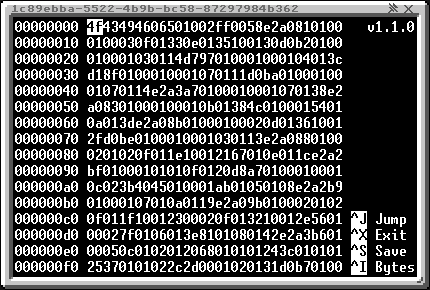
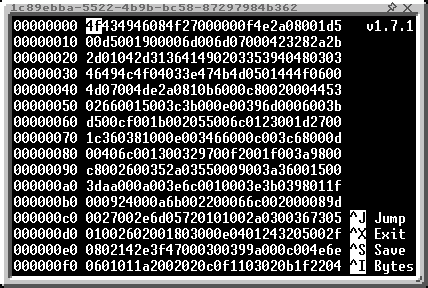
Updated the Hextra docs from documenting v1.1.0 to v1.7.1

diff --git a/docs/hextra/README.md b/docs/hextra/README.md
@@ -20,6 +20,10 @@ There isn't unfortunately enough space to fit a decoding table on Tier 1.
 
 Jumping works by pressing Ctrl+J: It will ask you for a position to jump to, with the default value being your current position in hexadecimal. This uses `tonumber()`, so entering a decimal value without the "0x" prefix will work fine.
 
-Choosing between inputting raw hex values or direct keyboard text can be done by pressing Ctrl+J. "Bytes" means you are typing bytes in hexadecimal, and "Text" means you are typing text directly from the keyboard. Pressing Backspace in both modes will move your cursor to the left.
+Choosing between inputting raw hex values or direct keyboard text can be done by pressing Ctrl+I. "Bytes" means you are typing bytes in hexadecimal, and "Text" means you are typing text directly from the keyboard. Pressing Backspace in both modes will move your cursor to the left.
 
-You can save your edited file by pressing Ctrl+S. If you'd like to save it to another file, press Ctrl+Shift+S. Then, to exit, press Ctrl+X. Please note that exiting will not save your progress, nor will it ask you whether to save the edited file or not.
+The decoding table defaults to using big endian. If the file format uses Low endian (e.g. CTIF), you can toggle between big endian and low endian by pressing Ctrl+E.
+
+If you want to write a value from a type of the decoding table, you can press Ctrl+W, use the arrow keys to select the type to use, press Enter, then enter the value you want to insert. You can also click directly on of the entries of the decoding table to edit it.
+
+You can save your edited file by pressing Ctrl+S. If you'd like to save it to another file, press Ctrl+Shift+S. Then, to exit, press Ctrl+X.
